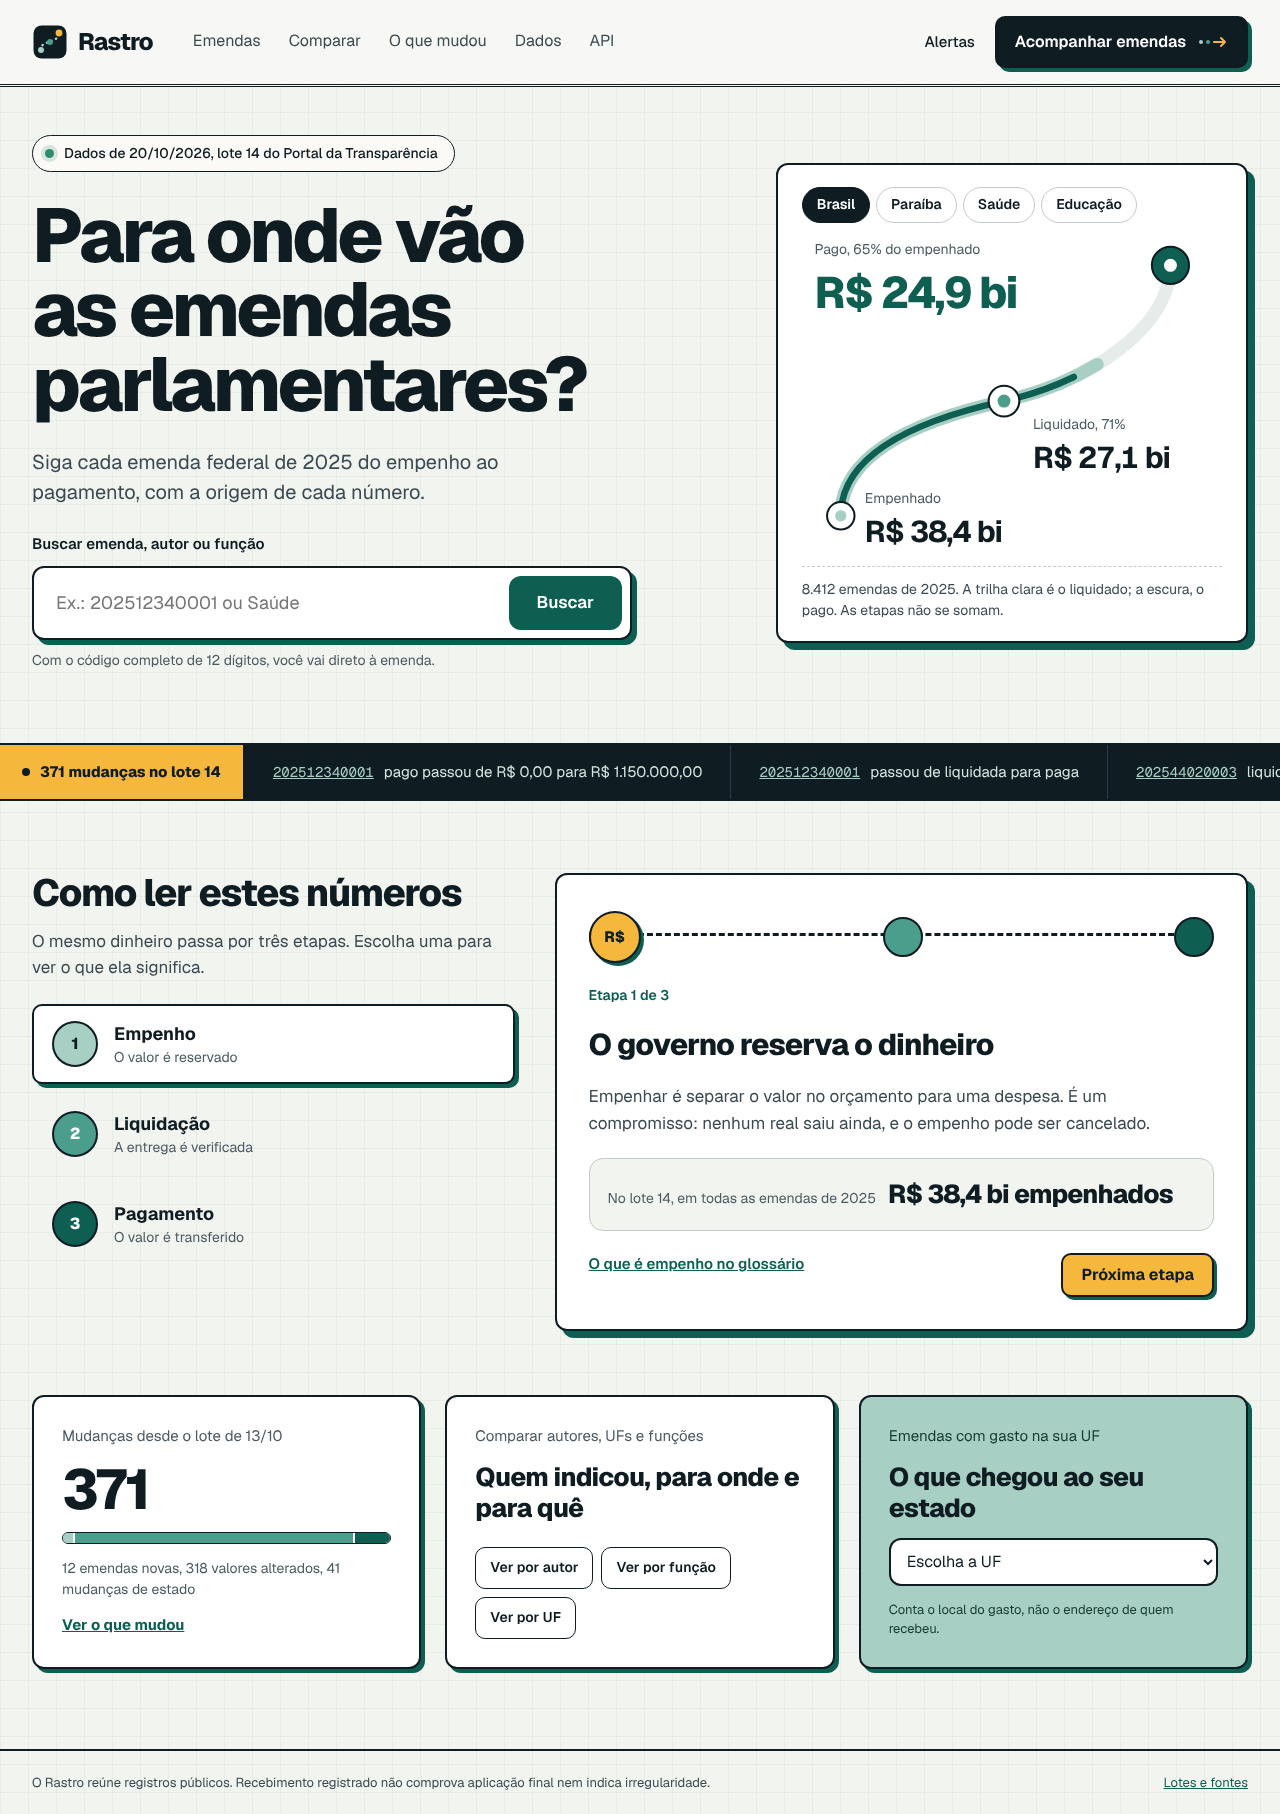
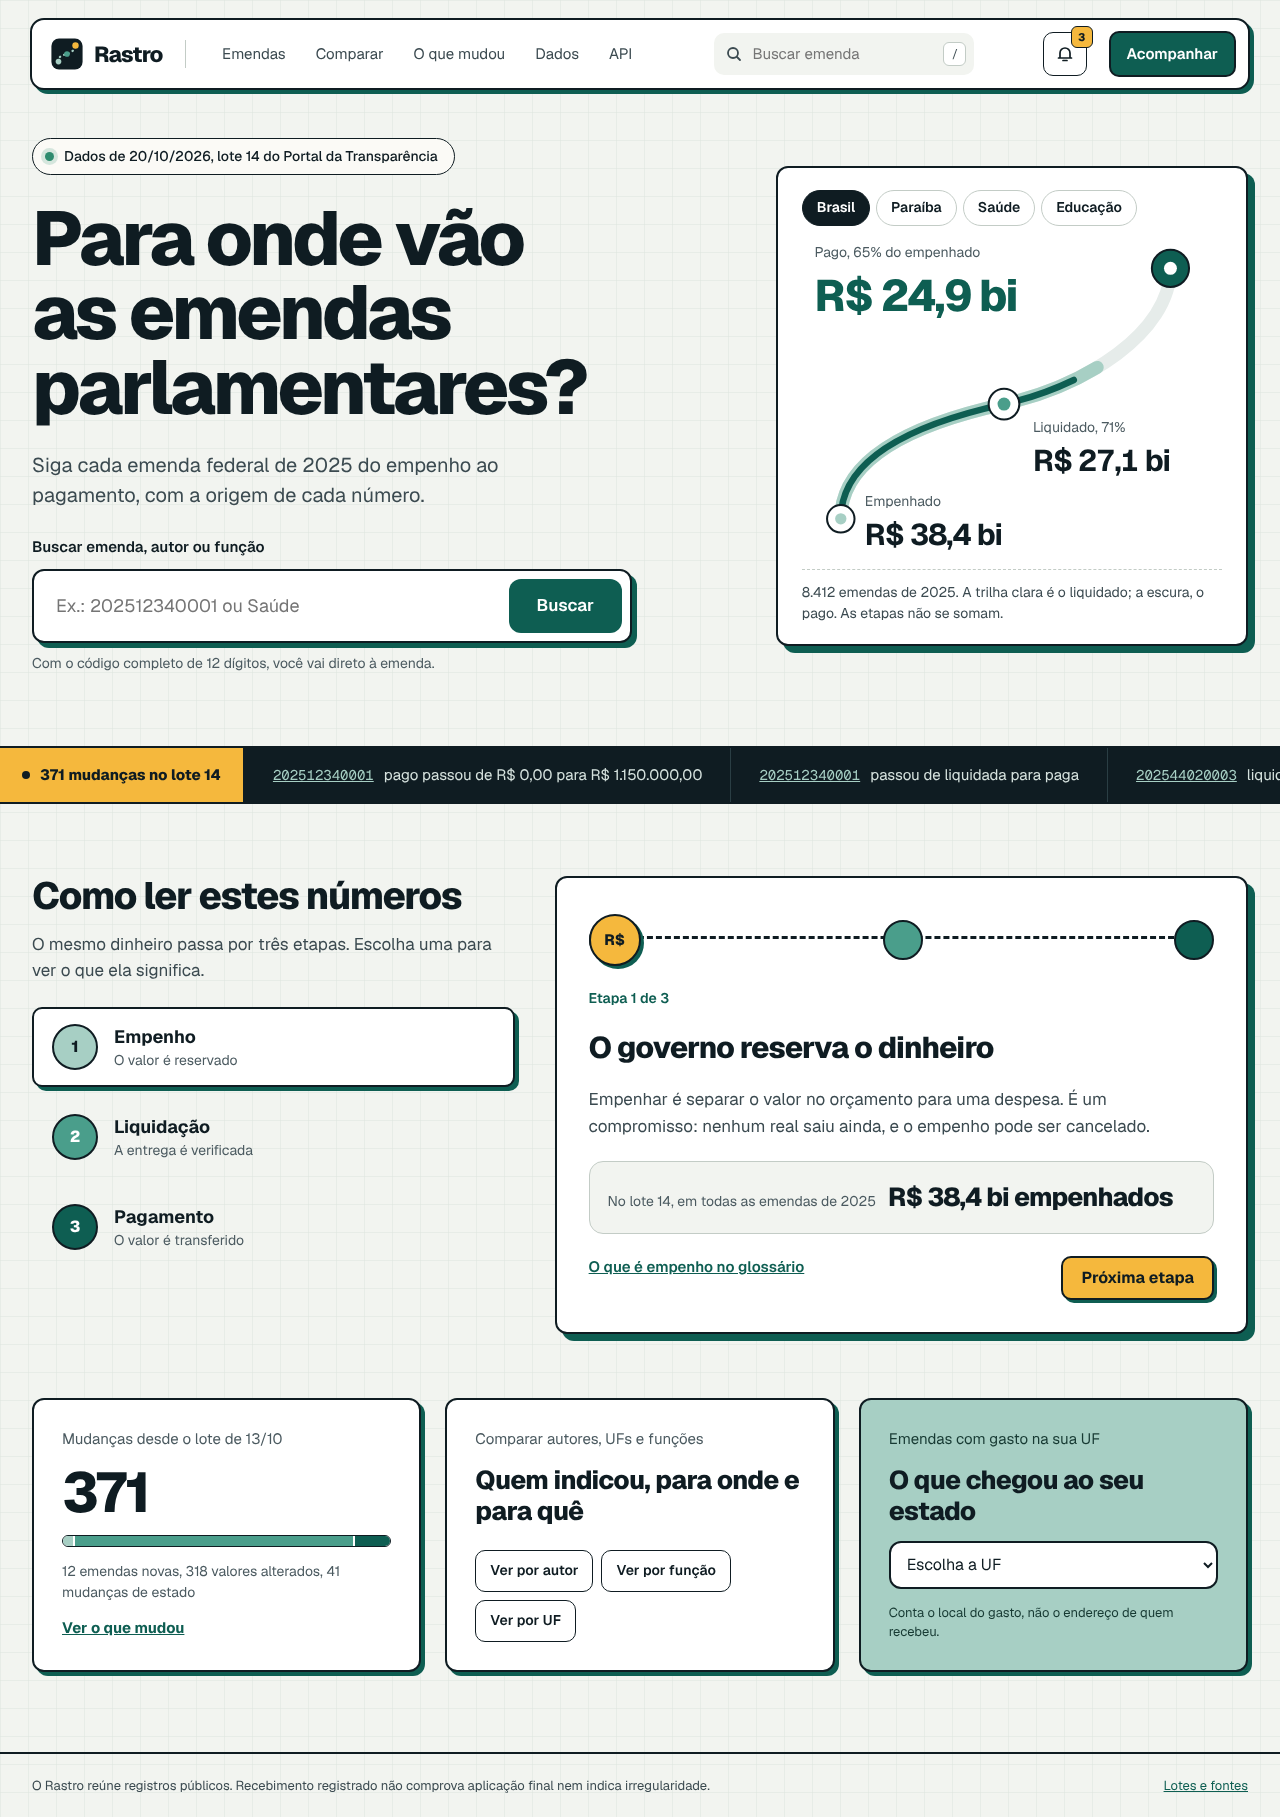
Cabeçalho em barra flutuante (opção C) em todas as telas
Claude-Session: https://claude.ai/code/session_01ETNU5uQUMK4aChQjZRdReK

diff --git a/especificacoes/joao-vitor/telas/diretrizes.md b/especificacoes/joao-vitor/telas/diretrizes.md
@@ -39,8 +39,8 @@ Valem para todas as fichas de tela. As fichas não repetem estas diretrizes; reg
 
 - **Ideia central: a trilha.** O mesmo elemento visual aparece em todas as telas com valores: uma barra única em que o empenhado é a trilha inteira e o liquidado e o pago a preenchem por dentro. Ela mostra quanto do dinheiro reservado já avançou, sem somar etapas. A cor segue uma escala sequencial de um só tom (claro → escuro = empenhado → liquidado → pago), e cada etapa sempre tem também o rótulo escrito.
 - **Tipografia:** Geist (interface, títulos e números, com algarismos tabulares) e Geist Mono só para identificadores (código da emenda, hash, CLI). Títulos em peso 800 com tracking negativo; corpo de 16 px; escala 13/15/16/20/26/38/52/76.
-- **Superfícies — "livro-razão":** fundo `#F2F4F0` com quadriculado fino, como papel de registro contábil. O cabeçalho fecha com uma régua dupla. Cartões, campos e botões têm borda de tinta `#0F1C22` (1,5–2 px), cantos retos de 10–12 px e sombra deslocada **verde-pinho**, que afunda ao clicar. Na navegação, a página atual é marcada por uma trilha pontilhada sob o nome. A ação principal "Acompanhar emendas" é um botão escuro com o ícone da trilha.
-- **Inspiração declarada:** a energia de sites estudantis com cara de papel e botões "táteis" (bordas grossas e sombra dura). A identidade (quadriculado, régua dupla, trilha pontilhada, sombra verde, marca quadrada com as três etapas) é própria do Rastro.
+- **Superfícies — "livro-razão":** fundo `#F2F4F0` com quadriculado fino, como papel de registro contábil. Cartões, campos e botões têm borda de tinta `#0F1C22` (1,5–2 px), cantos retos de 10–12 px e sombra deslocada **verde-pinho**, que afunda ao clicar. O cabeçalho é uma barra flutuante com a mesma borda e sombra.
+- **Inspiração declarada:** a energia de sites estudantis com cara de papel e botões "táteis" (bordas grossas e sombra dura). A identidade (quadriculado de livro-razão, barra flutuante, sombra verde, marca quadrada com as três etapas da trilha) é própria do Rastro.
 - **Paleta:** papel `#F2F4F0`, tinta `#0F1C22`, texto secundário `#3B4A50`/`#4B5A60` (contraste ≥ 7:1 sobre o papel), verde-pinho `#0E5E52` para ações e links, escala da trilha `#A7CFC4` / `#4A9E8B` / `#0E5E52`, âmbar `#F5B83D` só como destaque (moeda, contador de alertas, faixa de mudanças).
 - **Movimento:** uma entrada suave por tela, as moedas correndo na trilha da P01 e a faixa de mudanças. Tudo para com `prefers-reduced-motion`.
 - **Inspira:** a clareza de produtos de dados com interface sóbria (painéis densos e legíveis, tabelas com números alinhados à direita) e o padrão de formulários do GOV.UK Design System (rótulo visível, erro junto ao campo).
@@ -77,7 +77,7 @@ Valem para todas as fichas de tela. As fichas não repetem estas diretrizes; reg
 
 ## Elementos comuns a todas as telas do painel
 
-- **Cabeçalho:** marca "Rastro" (→ P01), navegação Emendas (P02) · Comparar (P06) · O que mudou (P08) · Dados (P09) · API (D01), botão "Alertas" com contador de não lidos (S05, ou S03 se não houver chave), e a faixa "Dados de dd/mm/aaaa · Lote #n" (→ P09), vinda de `obter_status`.
+- **Cabeçalho (barra flutuante):** cartão branco destacado do topo, com borda de tinta e sombra verde. Contém a marca (→ P01), o menu Emendas (P02), Comparar (P06), O que mudou (P08), Dados (P09) e API (D01), com a seção atual em realce verde-claro. Tem também a busca global ("Buscar emenda", atalho `/`: 12 dígitos → P03 via `obter_emenda`, outro texto → P02 com `?q=`), o sino de alertas com o número de não lidos (S05, ou S03 sem chave) e o botão "Acompanhar" (S01). Logo abaixo da barra fica a linha "Dados de dd/mm/aaaa, lote n do Portal da Transparência. Ver origem" (→ P09), vinda de `obter_status` (REQ-48). No celular ficam só a marca, o sino e o botão de menu.
 - **Rodapé:** "O Rastro reúne registros públicos. Recebimento registrado não comprova aplicação final nem indica irregularidade." Links para P09 e para o repositório.
 - **Estados comuns:**
   - carregando (REQ-44);
